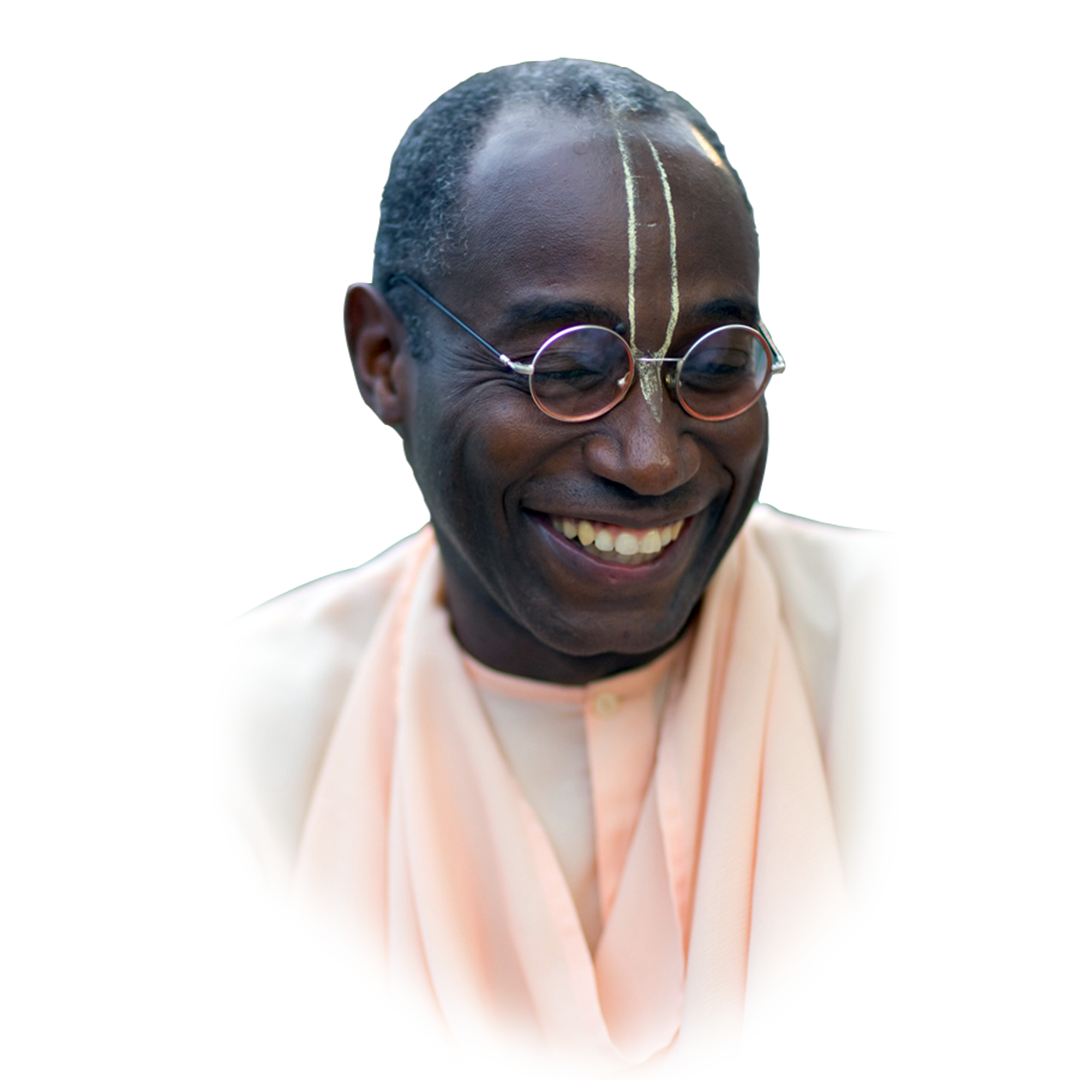
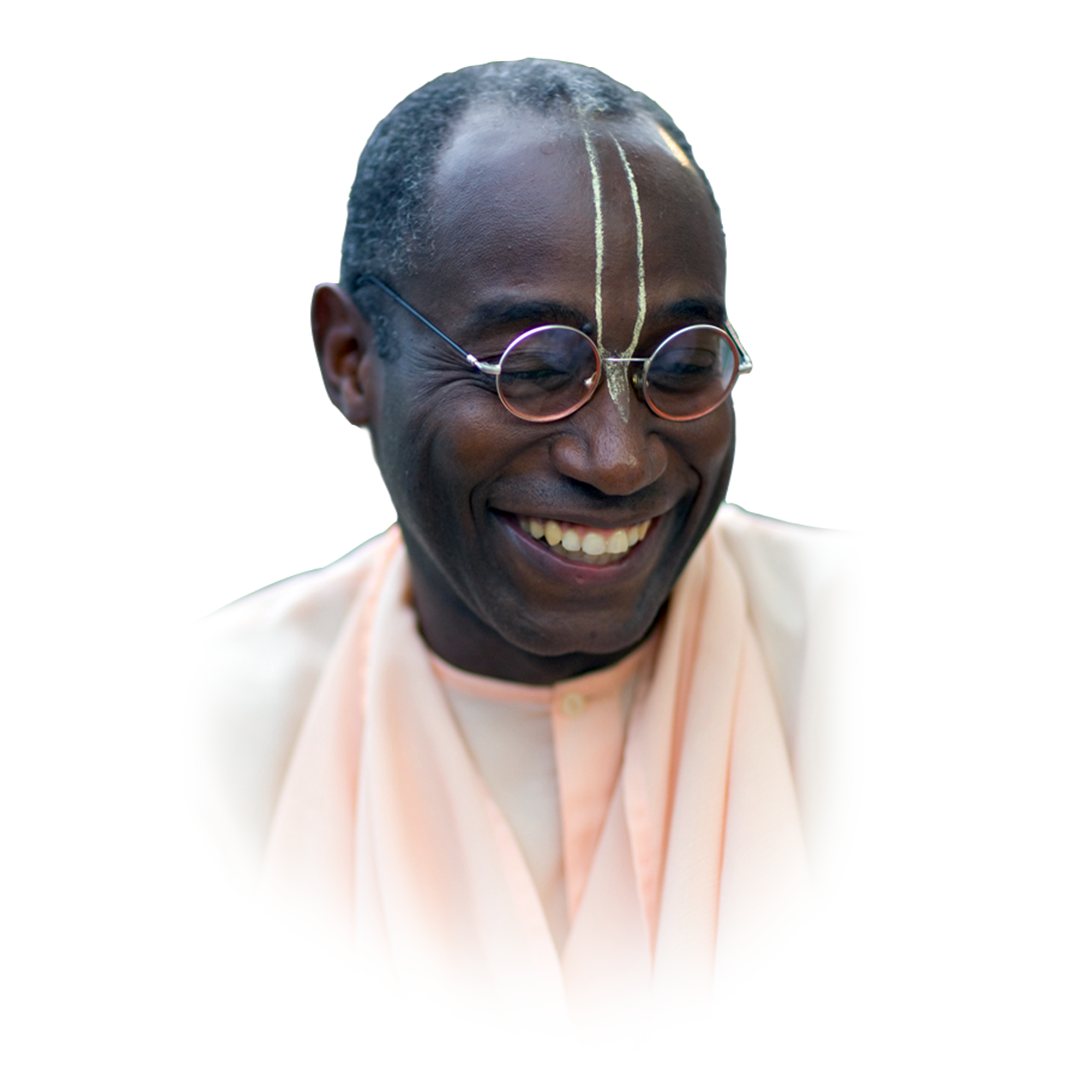
styled image and centred

Changed region(s): [[0.2444, 0.0306, 0.7944, 0.9778]]

diff --git a/src/styling/main.css b/src/styling/main.css
@@ -1,0 +1,10 @@
+.origin-box .origin-image img {
+  display: block;
+  position: fixed;
+  right: 0;
+  left: 0;
+  margin-left: auto;
+  margin-right: auto;
+  margin-top: 50px;
+  width: 70%;
+}

diff --git a/src/components/main/Main.js b/src/components/main/Main.js
@@ -1,5 +1,6 @@
 import React from 'react';
 import mainImage from '../../assets/BhaktiTirthaSwamiMain.png'
+import '../../styling/main.css'
 
 const Main = () => {
 
